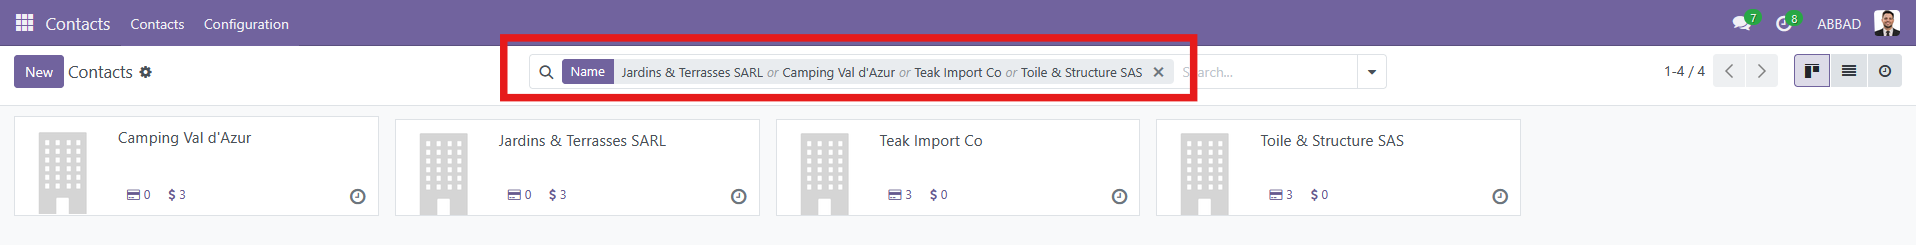
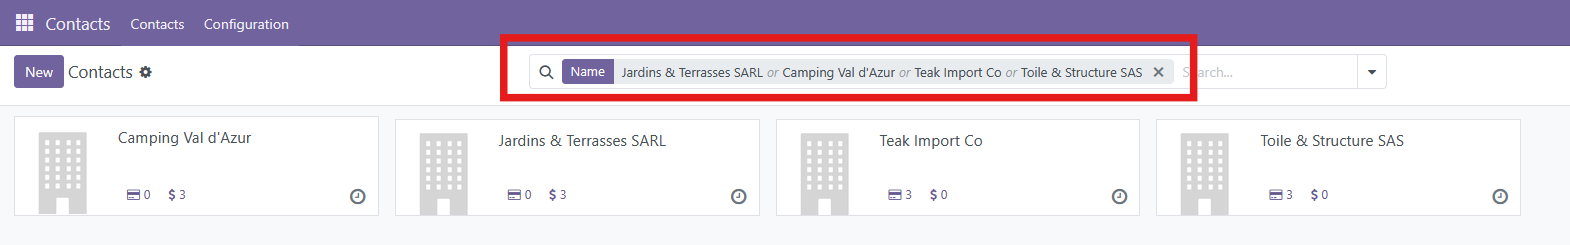
Zoom Odoo screenshots in Use Cases (wider display + trimmed dead margins), Excel side untouched

diff --git a/sa_multi_search/static/description/index.html b/sa_multi_search/static/description/index.html
@@ -147,7 +147,7 @@
         </div>
 
         <div>
-            <img src="screen_odoo.png" alt="Multi search result - Products" style="width:100%;max-width:900px;display:block;border-radius:8px;border:1px solid #dce8ff;"/>
+            <img src="screen_odoo.png" alt="Multi search result - Products" style="width:100%;max-width:960px;display:block;border-radius:8px;border:1px solid #dce8ff;"/>
             <p style="font-size:13px;color:#888;margin:8px 0 0;font-style:italic;">All matching products found in Odoo</p>
         </div>
     </div>
@@ -160,7 +160,7 @@
         </div>
 
         <div>
-            <img src="ventes_odoo.png" alt="Multi search result - Sales Orders" style="width:100%;max-width:900px;display:block;border-radius:8px;border:1px solid #dce8ff;"/>
+            <img src="ventes_odoo.png" alt="Multi search result - Sales Orders" style="width:100%;max-width:960px;display:block;border-radius:8px;border:1px solid #dce8ff;"/>
             <p style="font-size:13px;color:#888;margin:8px 0 0;font-style:italic;">All matching sales orders found in Odoo</p>
         </div>
     </div>
@@ -173,7 +173,7 @@
         </div>
 
         <div>
-            <img src="achats_odoo.png" alt="Multi search result - Purchase Orders" style="width:100%;max-width:900px;display:block;border-radius:8px;border:1px solid #dce8ff;"/>
+            <img src="achats_odoo.png" alt="Multi search result - Purchase Orders" style="width:100%;max-width:960px;display:block;border-radius:8px;border:1px solid #dce8ff;"/>
             <p style="font-size:13px;color:#888;margin:8px 0 0;font-style:italic;">All matching purchase orders found in Odoo</p>
         </div>
     </div>
@@ -186,7 +186,7 @@
         </div>
 
         <div>
-            <img src="fabrication_odoo.png" alt="Multi search result - Manufacturing Orders" style="width:100%;max-width:900px;display:block;border-radius:8px;border:1px solid #dce8ff;"/>
+            <img src="fabrication_odoo.png" alt="Multi search result - Manufacturing Orders" style="width:100%;max-width:960px;display:block;border-radius:8px;border:1px solid #dce8ff;"/>
             <p style="font-size:13px;color:#888;margin:8px 0 0;font-style:italic;">All matching manufacturing orders found in Odoo</p>
         </div>
     </div>
@@ -199,7 +199,7 @@
         </div>
 
         <div>
-            <img src="inventory_odoo.png" alt="Multi search result - Inventory" style="width:100%;max-width:900px;display:block;border-radius:8px;border:1px solid #dce8ff;"/>
+            <img src="inventory_odoo.png" alt="Multi search result - Inventory" style="width:100%;max-width:960px;display:block;border-radius:8px;border:1px solid #dce8ff;"/>
             <p style="font-size:13px;color:#888;margin:8px 0 0;font-style:italic;">All matching transfers found in Odoo</p>
         </div>
     </div>
@@ -212,7 +212,7 @@
         </div>
 
         <div>
-            <img src="contacts_odoo.png" alt="Multi search result - Contacts" style="width:100%;max-width:900px;display:block;border-radius:8px;border:1px solid #dce8ff;"/>
+            <img src="contacts_odoo.png" alt="Multi search result - Contacts" style="width:100%;max-width:960px;display:block;border-radius:8px;border:1px solid #dce8ff;"/>
             <p style="font-size:13px;color:#888;margin:8px 0 0;font-style:italic;">All matching contacts found in Odoo</p>
         </div>
     </div>
